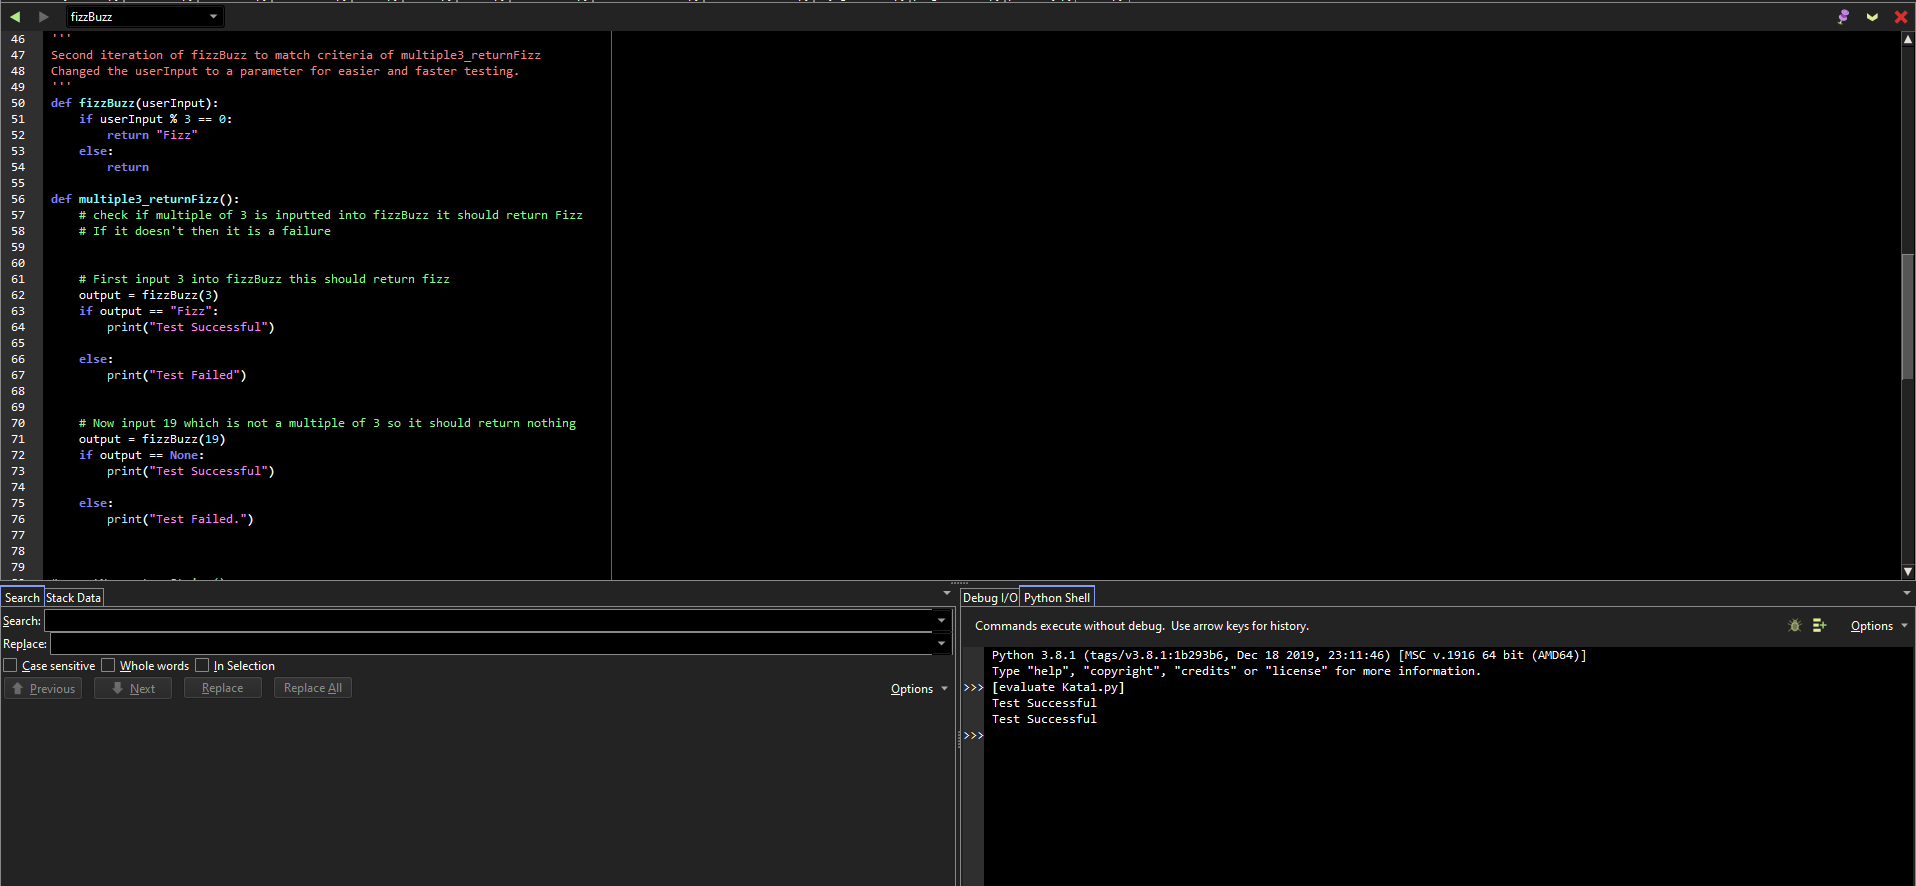
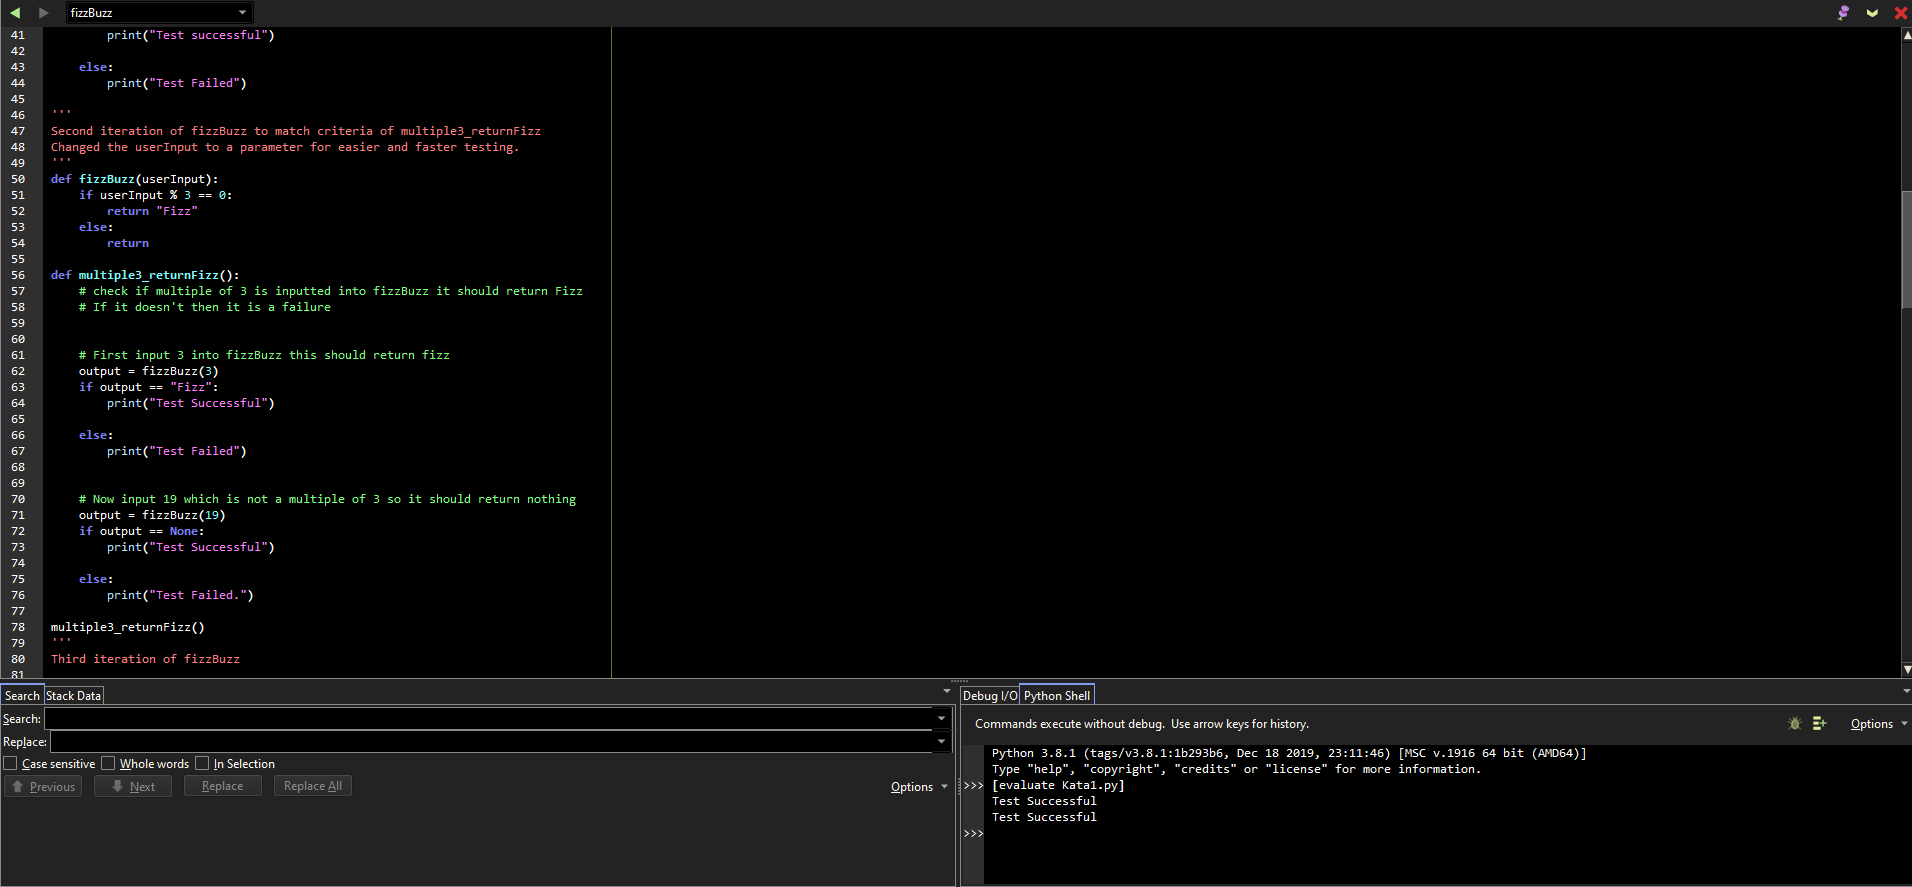
Refactored tests, much easier to read now

Changed region(s): [[0.0, 0.0, 1.0, 1.0], [0.1543, 0.8837, 0.1851, 0.9142]]

diff --git a/Kata1.py b/Kata1.py
@@ -74,7 +74,7 @@ def multiple3_returnFizz():
         
     else:
         print("Test Failed.")
-        
+             
 '''
 Third iteration of fizzBuzz
 
@@ -100,23 +100,8 @@ def multiple5_returnBuzz():
     else:
         print("Test Failed")
     
-    # Now input 19 which is not a multiple of 3 or 5 so it should return nothing
-    output = fizzBuzz(19)
-    if output == None:
-        print("Test Successful")
-        
-    else:
-        print("Test Failed.")    
-        
-    # Ensure that if 3 inputted we still get Fizz returned
-    output = fizzBuzz(3)
-    if output == "Fizz":
-        print("Test Successful")
-                
-    else:
-        print("Test Failed")   
-        
-        
+    multiple3_returnFizz() # ensures previous tests still pass
+             
 '''
 Fourth iteration of fizzBuzz FINAL WORKING FUNCTION
 '''
@@ -142,28 +127,6 @@ def multiple3And5_returnFizzBuzz():
     else:
         print("Test Failed")    
     
-    # Ensure that if 5 is inputted we still get Buzz returned
-    output = fizzBuzz(5)
-    if output == "Buzz":
-        print("Test Successful")
-        
-    else:
-        print("Test Failed")
-    
-    # Now input 19 which is not a multiple of 3 or 5 so it should return nothing
-    output = fizzBuzz(19)
-    if output == None:
-        print("Test Successful")
-        
-    else:
-        print("Test Failed.")    
-        
-    # Ensure that if 3 inputted we still get Fizz returned
-    output = fizzBuzz(3)
-    if output == "Fizz":
-        print("Test Successful")
-                
-    else:
-        print("Test Failed")       
+    multiple5_returnBuzz() # ensures previous tests still pass
 
-# multiple3And5_returnFizzBuzz()
+multiple3And5_returnFizzBuzz()
